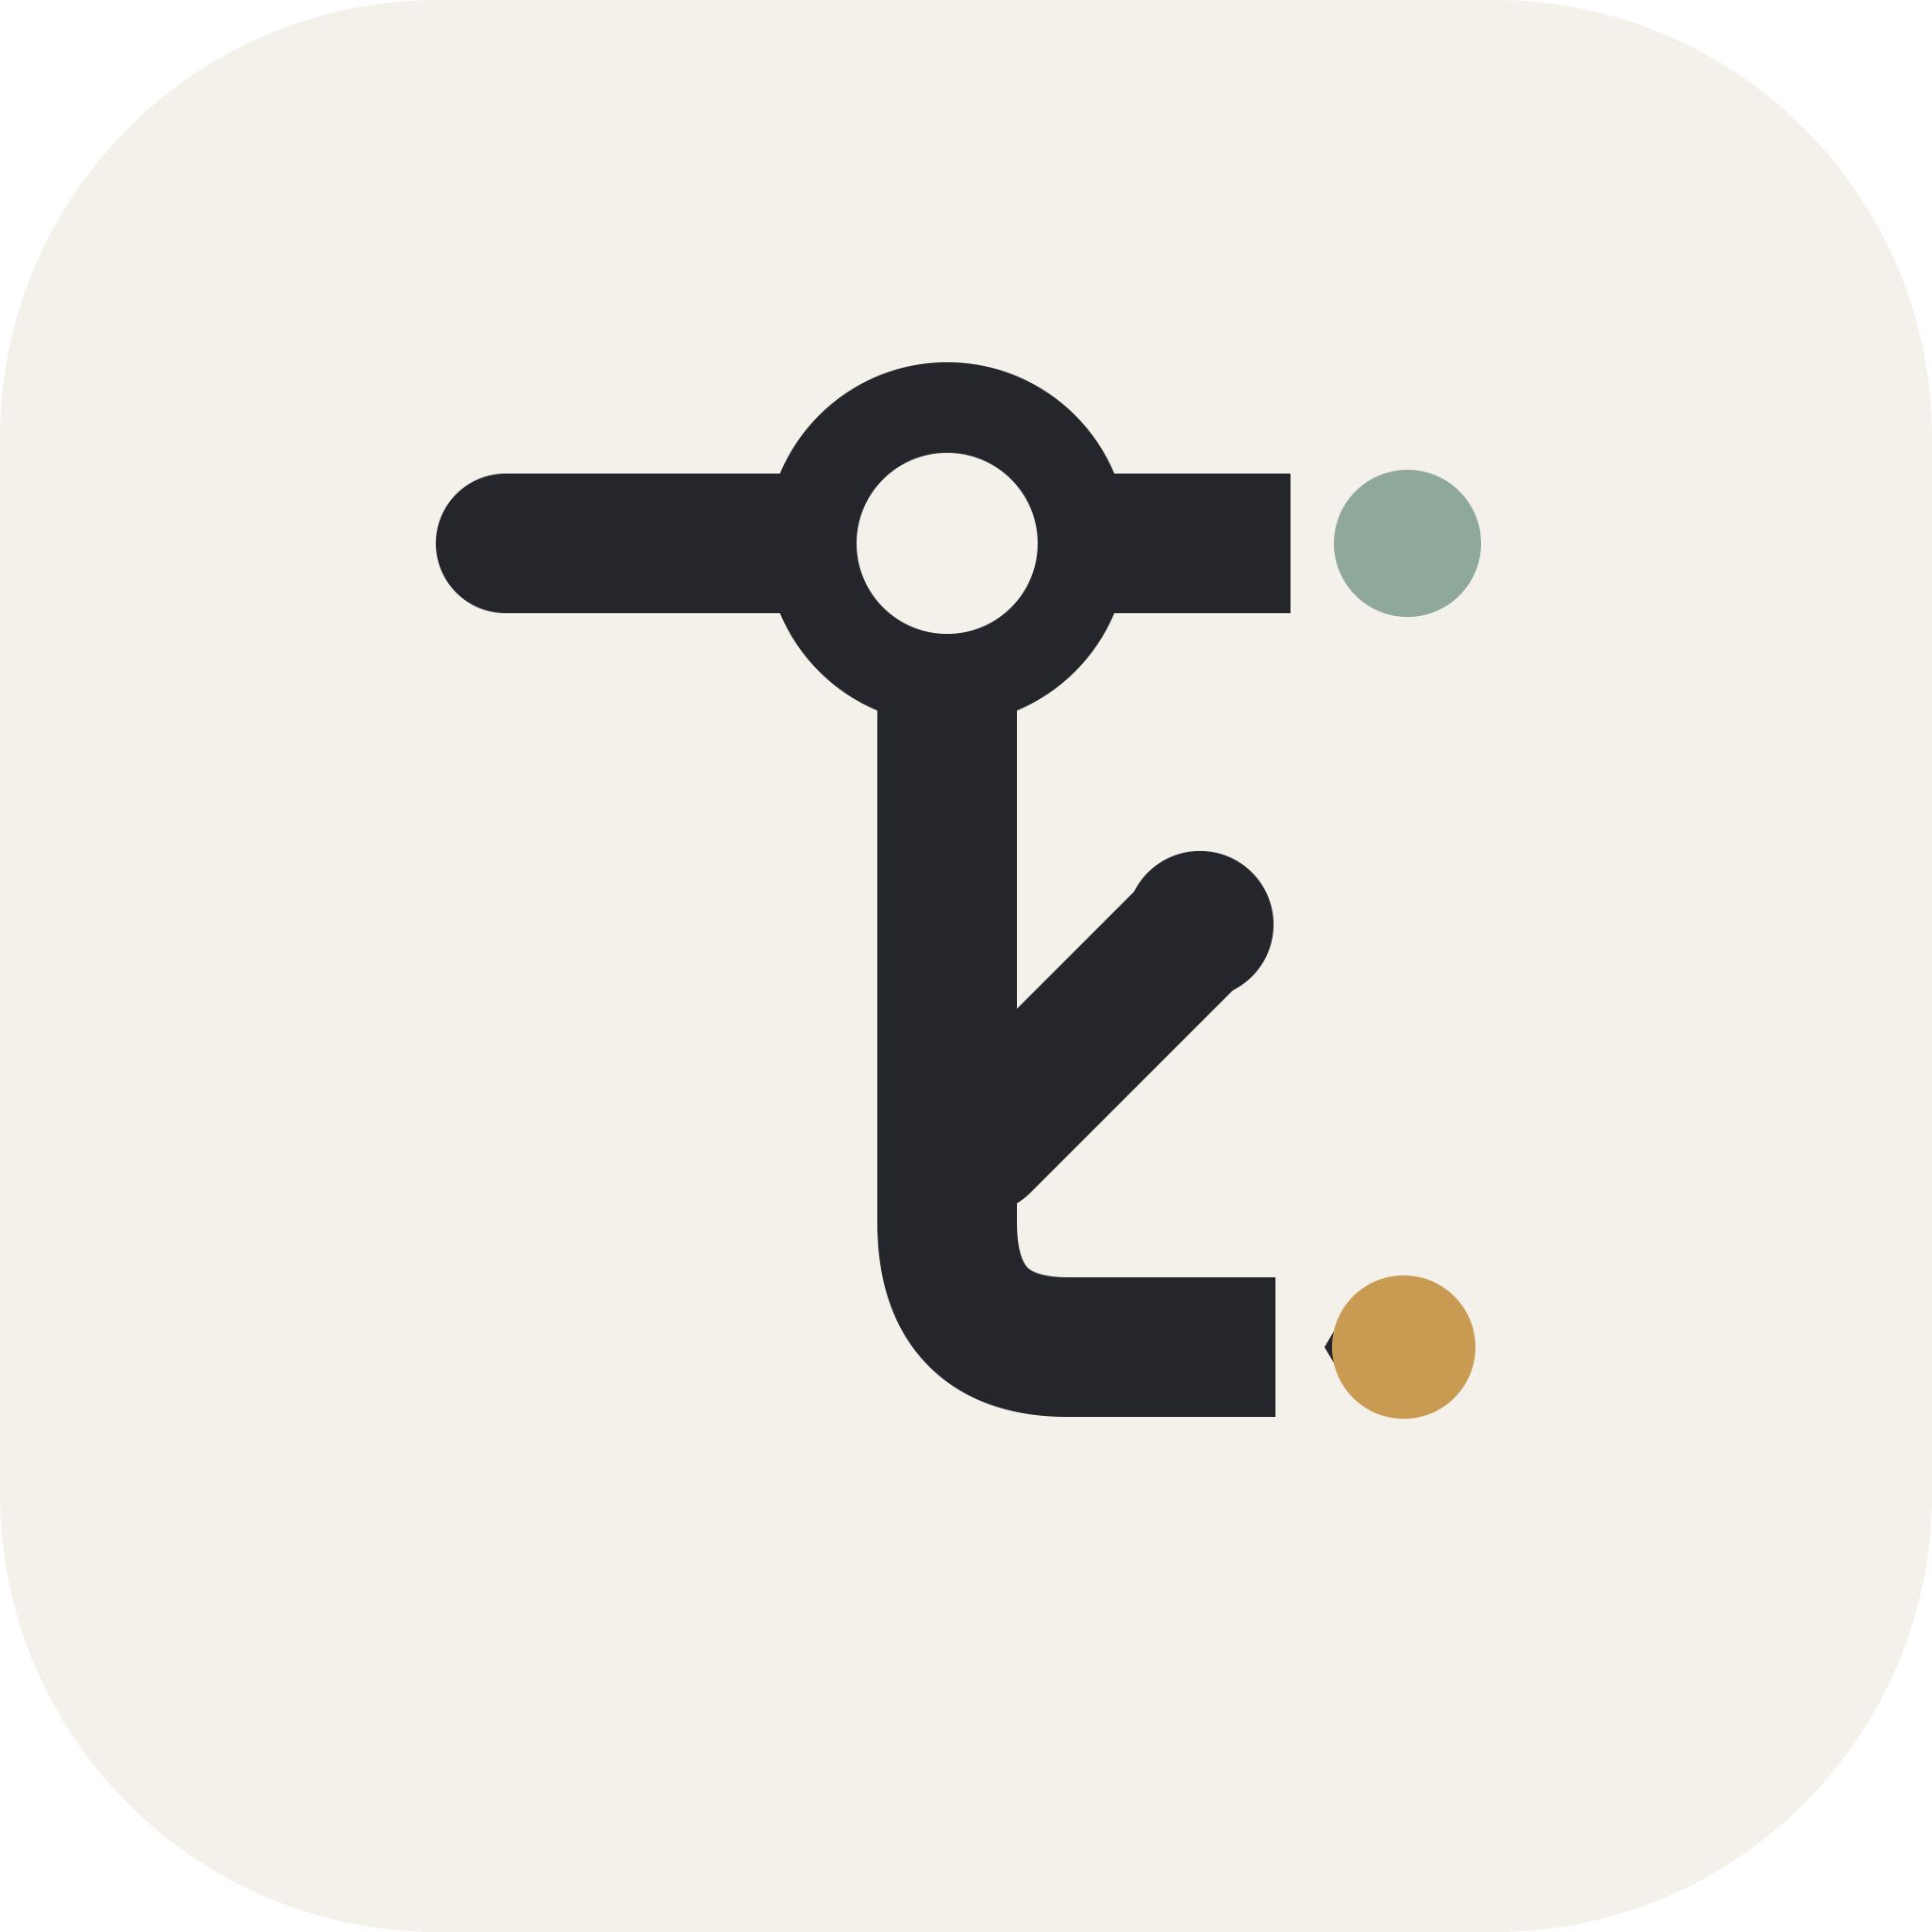
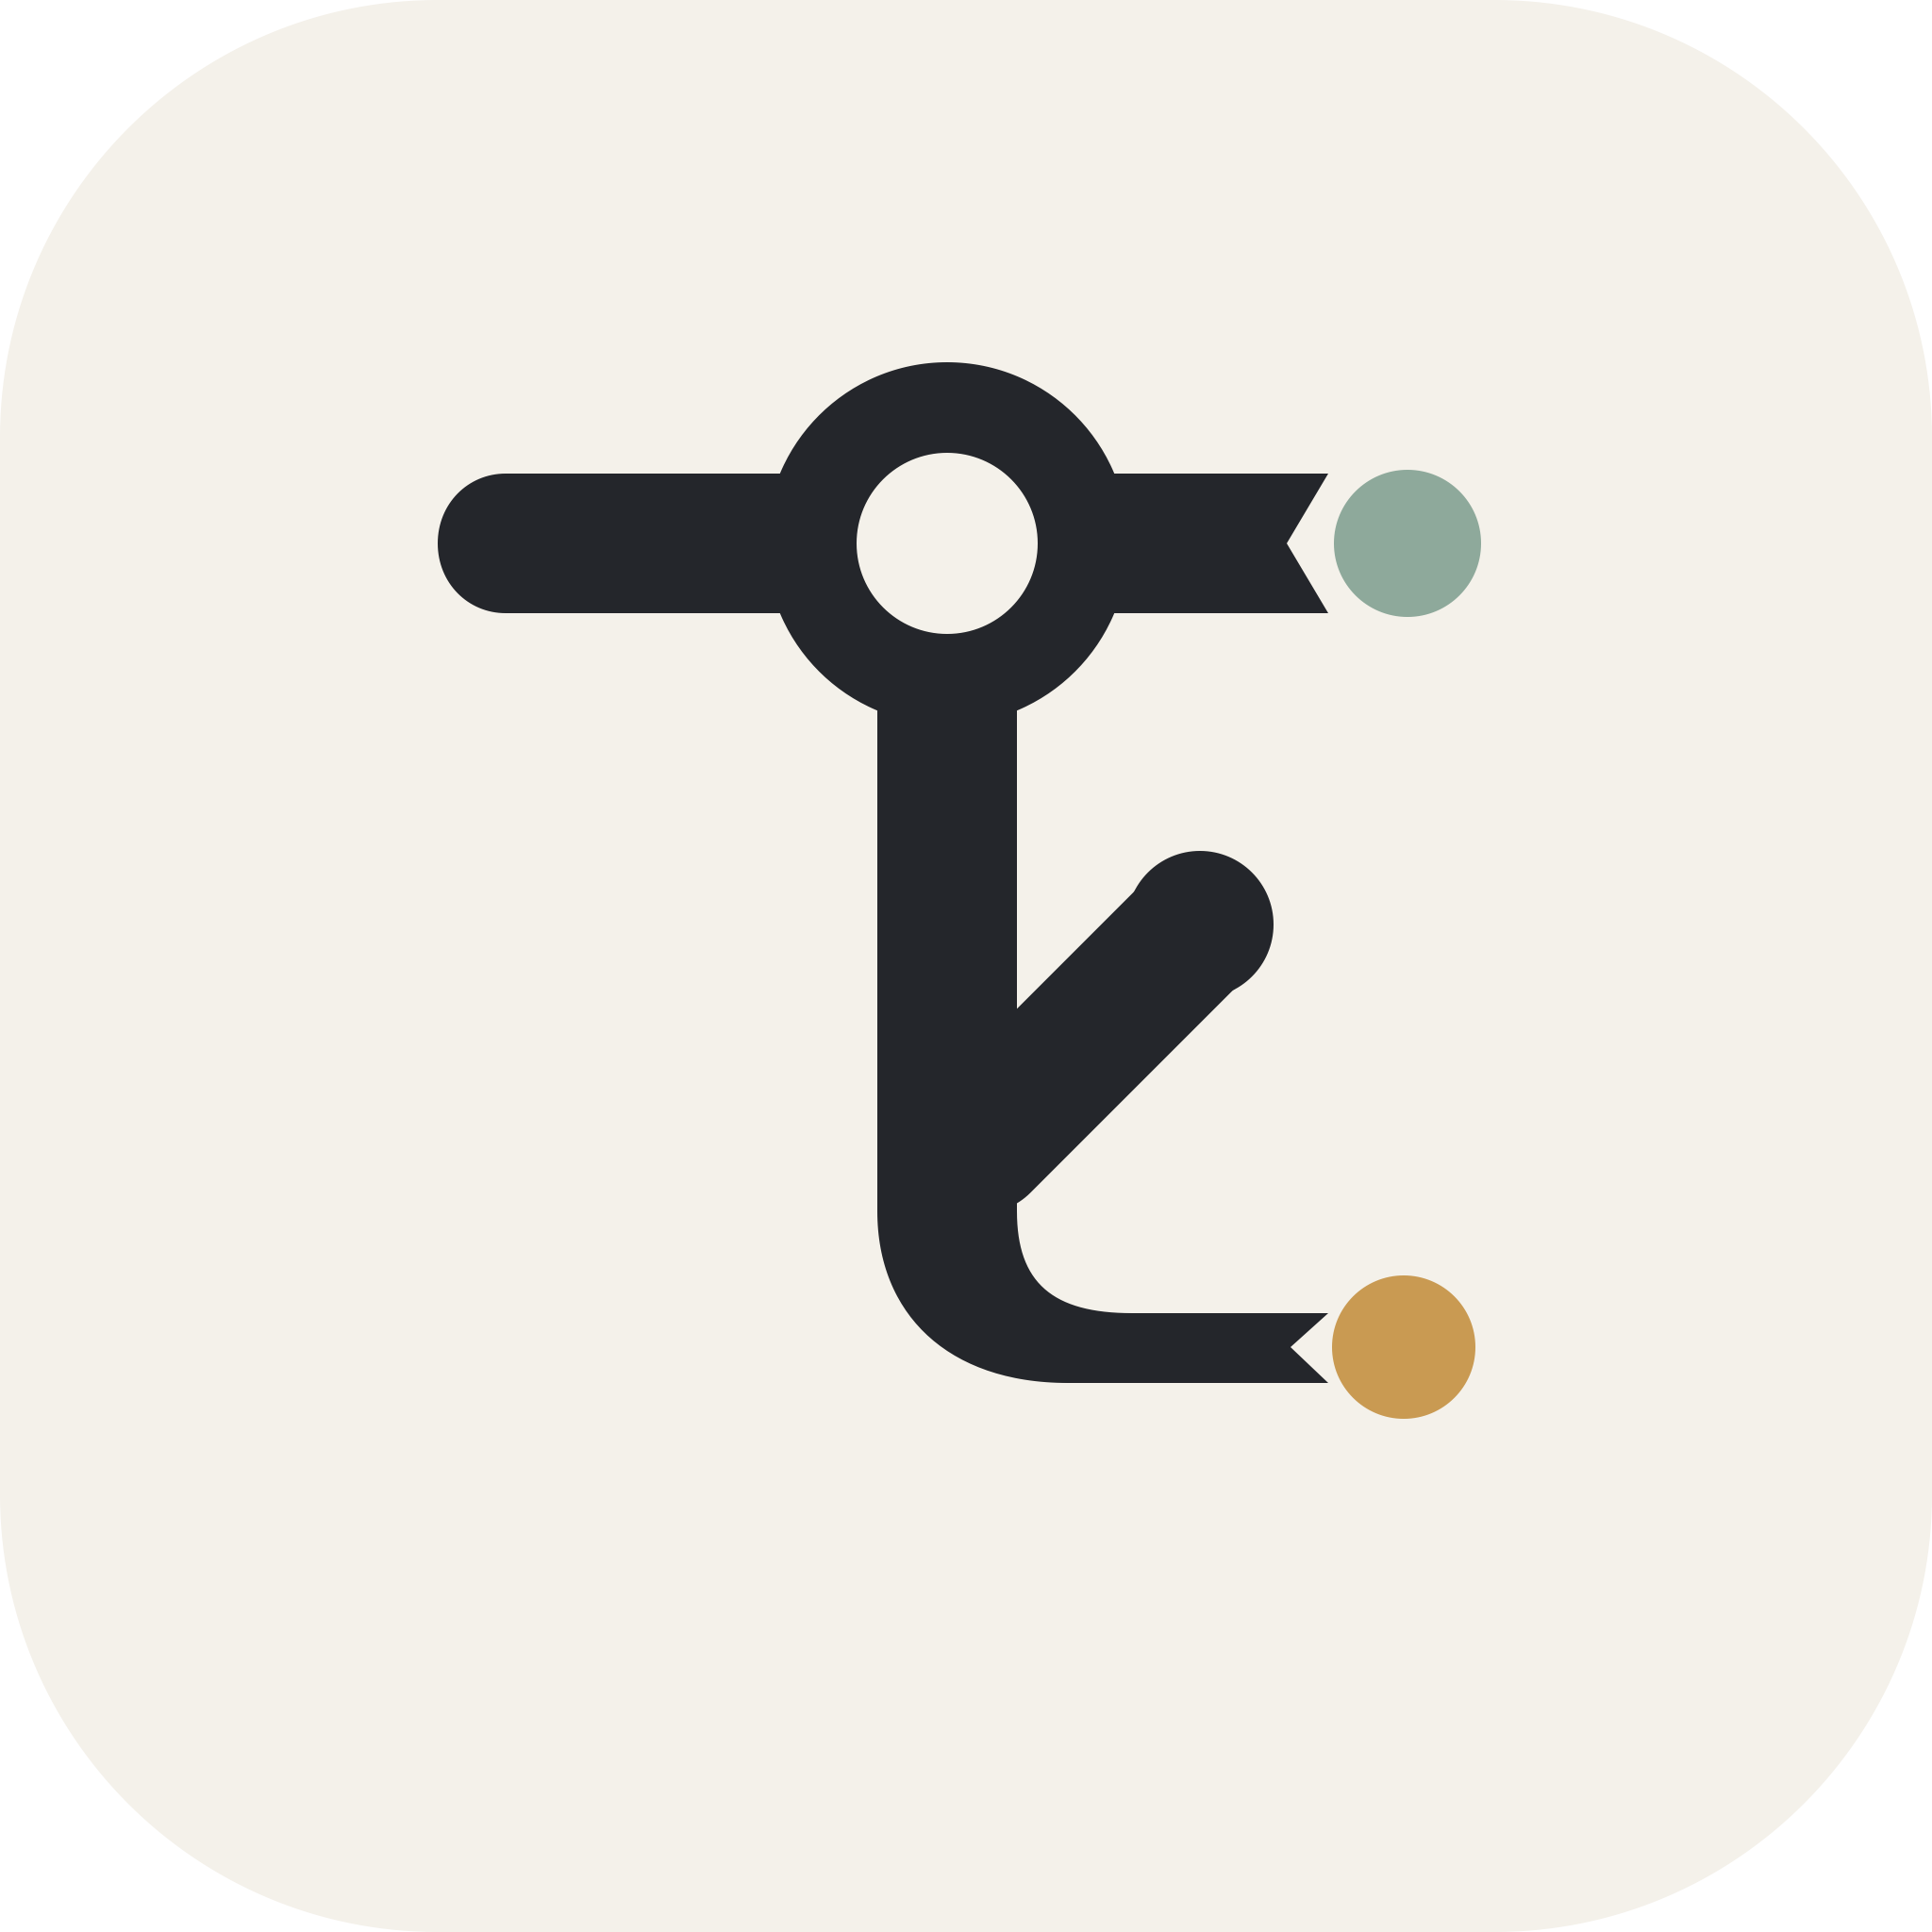
Fix README merge conflicts and nested Button in AIInsightCard
- Resolve git merge conflict markers in README (3 zones from cherry-pick)
- Fix nested Button in AIInsightCard: move switchAction out of expand Button label
- Keep detailed HEAD descriptions for AIInsightCard and session features

Changed region(s): [[0.4688, 0.6562, 0.6875, 0.75], [0.6562, 0.25, 0.6875, 0.3125], [0.4375, 0.6562, 0.4688, 0.6875]]

diff --git a/Sources/Toki/Views/Components.swift b/Sources/Toki/Views/Components.swift
@@ -108,46 +108,50 @@ struct AIInsightCard: View {
 
     var body: some View {
         VStack(alignment: .leading, spacing: expanded ? 6 : 0) {
-            Button {
-                if canExpand { expanded.toggle() }
-            } label: {
-                HStack(alignment: .top, spacing: 6) {
-                    if isUpdating {
-                        ProgressView()
-                            .controlSize(.mini)
-                            .frame(width: 11, height: 11)
-                    } else {
-                        Image(systemName: isAI ? "sparkles" : "lightbulb")
-                            .font(.system(size: 11, weight: .semibold))
-                            .foregroundStyle(isAI ? .purple : .secondary)
-                    }
-                    Text(summary)
-                        .font(.system(size: 11))
-                        .foregroundStyle(.primary)
-                        .fixedSize(horizontal: false, vertical: true)
-                        .multilineTextAlignment(.leading)
-                    Spacer(minLength: 4)
-                    if let switchAction {
-                        Button(action: switchAction.perform) {
-                            Image(systemName: switchAction.systemImage)
+            HStack(alignment: .top, spacing: 6) {
+                Button {
+                    if canExpand { expanded.toggle() }
+                } label: {
+                    HStack(alignment: .top, spacing: 6) {
+                        if isUpdating {
+                            ProgressView()
+                                .controlSize(.mini)
+                                .frame(width: 11, height: 11)
+                        } else {
+                            Image(systemName: isAI ? "sparkles" : "lightbulb")
                                 .font(.system(size: 11, weight: .semibold))
+                                .foregroundStyle(isAI ? .purple : .secondary)
                         }
-                        .buttonStyle(.plain)
-                        .frame(width: 22, height: 22)
-                        .background(Color.primary.opacity(0.08), in: RoundedRectangle(cornerRadius: 6, style: .continuous))
-                        .help(switchAction.help)
-                        .pointerOnHover()
-                    }
-                    if canExpand {
-                        Image(systemName: expanded ? "chevron.up" : "chevron.down")
-                            .font(.system(size: 9, weight: .semibold))
-                            .foregroundStyle(.tertiary)
-                            .padding(.top, 3)
+                        Text(summary)
+                            .font(.system(size: 11))
+                            .foregroundStyle(.primary)
+                            .fixedSize(horizontal: false, vertical: true)
+                            .multilineTextAlignment(.leading)
+                        if canExpand {
+                            Image(systemName: expanded ? "chevron.up" : "chevron.down")
+                                .font(.system(size: 9, weight: .semibold))
+                                .foregroundStyle(.tertiary)
+                                .padding(.top, 3)
+                        }
                     }
                 }
+                .buttonStyle(.plain)
+                .pointerOnHover()
+
+                Spacer(minLength: 4)
+
+                if let switchAction {
+                    Button(action: switchAction.perform) {
+                        Image(systemName: switchAction.systemImage)
+                            .font(.system(size: 11, weight: .semibold))
+                    }
+                    .buttonStyle(.plain)
+                    .frame(width: 22, height: 22)
+                    .background(Color.primary.opacity(0.08), in: RoundedRectangle(cornerRadius: 6, style: .continuous))
+                    .help(switchAction.help)
+                    .pointerOnHover()
+                }
             }
-            .buttonStyle(.plain)
-            .pointerOnHover()
 
             if expanded {
                 ForEach(suggestions) { suggestion in

diff --git a/README.md b/README.md
@@ -43,19 +43,11 @@ Toki stays local. Credentials are read from your Mac, your configured commands, 
 - Active-agent discovery for Codex, Claude Code, Copilot CLI, OpenCode, and ChatGPT-hosted Codex, including runtime, terminal metadata, working directory, and best-effort navigation to the matching terminal tab or host app via bundle ID.
 - GitHub release checks with one-click, verified DMG installation and relaunch.
 - Privacy-safe rotating diagnostics in `~/.toki/logs/` with an attached debug-report share action.
-<<<<<<< HEAD
 - AI-powered insight card with on-device Apple Intelligence summarization (macOS 26+), falling back to deterministic recommendations, with expandable suggestions and one-click switch.
 - One-click switch to the recommended Claude Code account, straight from the overview (Claude Code accounts only, via `claude-swap`).
 - Native low-quota notifications with cooldowns, DND mode, and local event history.
 - Local usage history so recent quota movement is visible without opening provider tools.
 - Session mode for tracking quota burn during a focused coding run, with a live stopwatch banner and header toggle.
-=======
-- AI-powered insight card that summarizes account state on-device via Apple Intelligence (macOS 26+), falling back to a deterministic recommendation, with expandable suggestions and one-click switch.
-- One-click switch to the recommended Claude Code account, straight from the overview (Claude Code accounts only, via `claude-swap`).
-- Native low-quota notifications with cooldowns, DND mode, and local event history.
-- Local usage history so recent quota movement is visible without opening provider tools.
-- Session mode for tracking quota burn during a focused coding run, with a live stopwatch banner.
->>>>>>> c1aeebc (Add on-device AI usage insights via Apple Intelligence)
 - Menu bar display modes for smart, lowest, Claude, Codex, combined, or account-count status.
 - Inline account aliases so long emails can become readable names.
 - Switch button for inactive Claude Code accounts via `claude-swap --switch-to`.
@@ -166,11 +158,7 @@ Each account needs a `label` (display name) and a `type` (provider). An `id` is 
 
 `refreshMinutes` defaults to `5`. API-backed providers refresh stale-while-revalidate style: Toki keeps the last visible usage while refreshing in the background. Automatic refreshes pace Claude Code API calls at 7.5 minutes to reduce early `429` responses, while Codex uses the 5-minute cadence. Opening the popover or pressing reload can refresh sooner, but still keeps a 1-minute minimum between provider API calls. If a provider returns `429`, Toki keeps showing the last good usage snapshot.
 
-<<<<<<< HEAD
-=======
 `aiInstructions` is an optional string that customizes the on-device LLM prompt used by the AIInsightCard on macOS 26+. When absent, Toki uses a default prompt based on the current recommendation and account snapshots.
-
->>>>>>> c1aeebc (Add on-device AI usage insights via Apple Intelligence)
 ### Smart Recommendations, AI Insights, Notifications, and History
 
 Toki keeps v2.1 preferences, notification cooldowns, event history, usage history, and session state in:
@@ -179,11 +167,7 @@ Toki keeps v2.1 preferences, notification cooldowns, event history, usage histor
 ~/.toki/usage-state.json
 ```
 
-<<<<<<< HEAD
 The overview shows a single AIInsightCard replacing the three separate stat blocks (Use, Status, Session). When running macOS 26+ with Apple Intelligence available, Toki generates a natural-language summary of your account state with actionable suggestions. A purple sparkle icon and border distinguish AI-generated content from the rule-based fallback. The optional `aiInstructions` config field lets you steer the on-device LLM prompt. On older systems the card shows the same deterministic recommendation with a lightbulb icon.
-=======
-The overview now shows a single AIInsightCard replacing the three separate stat blocks. When running macOS 26+ with Apple Intelligence available, Toki generates a natural-language summary of your account state with actionable suggestions. The `aiInstructions` config field lets you steer the on-device LLM prompt. On older systems the card shows the deterministic recommendation with a lightbulb icon.
->>>>>>> c1aeebc (Add on-device AI usage insights via Apple Intelligence)
 
 The settings panel controls native notifications, DND mode, low-quota threshold, session warning threshold, notification cooldown, history retention, and the menu bar display mode. DND mode suppresses macOS notification delivery but still records events so you can audit what would have fired.
 